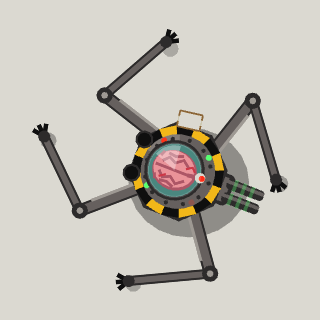
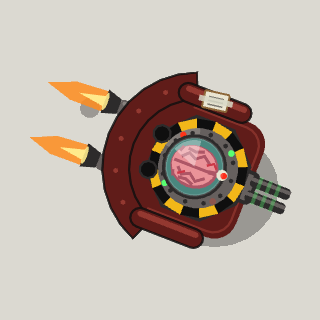
Floor Manager: no legs, he floats in an executive chair on a rocket
The spider legs looked wrong. His look (floor_manager_look.lua) now sits his
hull in an oxblood executive chair: the seat piped, a tufted backrest curved
round behind him, padded armrests on chrome posts, the clipboard taped to the
left one. Two rocket engines poke out behind the backrest, their flames
longer the faster he goes. He bobs off the floor, his shadow off to one
side; for a stomp the rockets roar and he rises, then drops. Their smoke
replaces the stacks'. The wreck is the chair with cold rockets.

Nothing he does changed; his comments, wiki page and docs say chair, not legs.

Changed region(s): [[0.0938, 0.0938, 0.9062, 0.9375]]

diff --git a/docs/eternal-mood.md b/docs/eternal-mood.md
@@ -47,18 +47,18 @@ branch off `feature/eternal-mood`):
   (`eternal-mood/floor_manager.lua`, his brain `floor_manager_brain.lua`,
   placed by the map's `horde.boss`; FM_ messages), the line's Arachnotron.
   The UAC's shift supervisor, promoted out of his body: his brain in a
-  glass dome on a four-legged spider walker, a plasma cannon under the
-  front, the clipboard taped on (drawn at 1.5x, 34 px across). 2250 health
+  glass dome on an armoured hull, a plasma cannon under the front,
+  floating in his executive chair on a rocket, the clipboard taped on (drawn at 1.5x, 34 px across). 2250 health
   for one human (Volt has 1800). He waits on the Hangar's lift, facing the
   room, until a player walks into the Hangar or shoots him ("You're not on
-  the rota."). He walks any way on his legs (90 px/s), keeps 340 px off
+  the rota."). He floats any way in his chair (90 px/s), keeps 340 px off
   whoever he has and side-steps. Plasma: within 700 px, facing them, the
   cannon charges for 0.55 s (glowing, a faint green line where it points),
   then a stream of ten bolts 0.09 s apart (fireballs.lua's "plasma", 520
   px/s, 9 `shock` each), the aim dragging after them at 1.1 rad/s: keep
   moving across it. Every 3.2 s, 2.4 in phase 2 (under half), when three
   streams go out in a fan (0.28 rad either side); 15 breath. Stomp: within
-  120 px the legs rear up for 0.6 s (a ring on the floor) and come down on
+  120 px he rises on his rockets for 0.6 s (a ring on the floor) and drops on
   everyone within 115 px (30 `impact`, a 140 px shove); every 2.2 s. The
   cannon has 600 health of its own (scaled like his): a round within 18 px
   of its end hits it, and him for a quarter; shot off ("My presentation!")
@@ -188,6 +188,16 @@ branch off `feature/eternal-mood`):
   cannon leaves a stump with its cables swinging and sparking. His wreck:
   legs sprawled flat, the hull dark, the dome smashed to shards round its
   rim, smoke going up.
+
+- `feature/floor-manager-chair`: the Floor Manager's legs gone (they
+  looked wrong). He floats in his executive chair on a rocket: oxblood
+  leather, the seat piped, a tufted backrest curved round behind him,
+  padded armrests on chrome posts, the clipboard taped to the left one;
+  two rocket engines out behind the backrest, banded in hazard paint, their
+  flames longer the faster he goes. He bobs 7 px off the floor (2 px up and
+  down), his shadow off to one side; for a stomp the rockets roar and he
+  rises 16 px more, then drops. Their smoke replaces the stacks'. His
+  wreck: the chair on the floor, its rockets cold. Nothing he does changed.
 
 - `feature/eternal-mood-earth`: Heck on Earth (`earth`, 40x160, on foot,
   `city-map/eternal_mood.lua`'s `buildEarth`), quest `eternal-mood-earth`
@@ -522,8 +532,8 @@ Each is a bit more dream than the last, the way the levels are.
 
 - **The Floor Manager** (Fobos Base), the line's Arachnotron. The UAC's
   shift supervisor, promoted out of his body: his brain in a glass dome on
-  a four-legged spider walker with a plasma cannon, his clipboard taped to
-  the side. Guards the hangar lift. Streams plasma, stomps whoever gets
+  an armoured hull with a plasma cannon, floating in his executive chair
+  on a rocket, his clipboard taped to its arm. Guards the hangar lift. Streams plasma, stomps whoever gets
   close, and calls zombie staff in "for a quick meeting". Shoot his cannon
   off and he has to come and stomp you. Not to be confused with Heck's
   Spider Mattressmind, the bigger spider with the chaingun.
@@ -917,7 +927,7 @@ the first drafts.
 - **Fobos Base**
   - The lab door opens: "Rip. Tear. In that order."
   - The reactor room: "Reactor's humming. Weird hum. Sounds like a fridge."
-  - The Floor Manager wakes: "A manager. A brain. On legs. With a gun. ...That's most managers."
+  - The Floor Manager wakes: "A manager. A brain. In a rocket chair. With a gun. ...That's most managers."
   - The Floor Manager down: "Meeting's over."
   - The end, the lift: "Going up. The demons are going down."
 - **Heck on Earth**

diff --git a/docs/wiki/enemies/eternal-mood-floor-manager.md b/docs/wiki/enemies/eternal-mood-floor-manager.md
@@ -6,7 +6,7 @@
 
 <img src="img/eternal-mood-floor-manager.png" alt="The Floor Manager" width="240">
 
-The UAC's shift supervisor, promoted out of his body: his brain in a glass dome on a four-legged spider walker, a plasma cannon slung under the front. The lift is out of service until he is down.
+The UAC's shift supervisor, promoted out of his body: his brain in a glass dome on an armoured hull, a plasma cannon slung under the front, floating about in his executive chair on a rocket. The lift is out of service until he is down.
 
 | | |
 |---|---|
@@ -14,14 +14,14 @@ The UAC's shift supervisor, promoted out of his body: his brain in a glass dome 
 | **Rank** | Boss |
 | **Health** | 2250 |
 | **Cannon** | 600 health of its own: rounds on it wreck it, and hurt him less |
-| **Speed** | 90 px/s, any way on four legs; 1.35 times that once his cannon is gone; 40 winded |
+| **Speed** | 90 px/s, floating any way; 1.35 times that once his cannon is gone; 40 winded |
 | **Sight** | 760 px |
 | **Drops** | 25 koins, and maybe a pickup or two |
 
 ## Weapons
 
 - **Plasma**: the cannon glows for 0.55 s, then a stream of 10 bolts, 0.09 s apart, 9 shock damage each, out to 700 px; his aim drags after you at 1.1 rad/s. One every 3.2 s, every 2.4 s under half health
-- **Stomp**: within 120 px: legs up for 0.6 s (a ring on the floor), then 30 impact damage to everyone within 115 px, shoved 140 px; at most every 2.2 s
+- **Stomp**: within 120 px: he rises for 0.6 s (a ring on the floor), then drops his chair: 30 impact damage to everyone within 115 px, shoved 140 px; at most every 2.2 s
 
 ## Abilities
 
@@ -36,7 +36,7 @@ The UAC's shift supervisor, promoted out of his body: his brain in a glass dome 
 
 - Shoot the cannon off first: no more plasma, though he comes at you faster.
 - Keep moving across a stream, not away from it: his aim is slow to follow.
-- Step out of the ring before his legs come down.
+- Step out of the ring before his chair comes down.
 - A freeze holds him stiff.
 
 ---

diff --git a/CHANGELOG.md b/CHANGELOG.md
@@ -14,6 +14,10 @@ How to write it (details in "Changelog and versioning" in `docs/features.md`):
 
 ## [Unreleased]
 
+### Changed
+- The Floor Manager has lost his spider legs: he floats about the Hangar in an oxblood executive chair on a
+  rocket, its flames roaring behind him. For his stomp he rises on full burn and drops the chair on you.
+
 ## [0.39.1] - 2026-10-20
 
 Kilowatt is more machine than man now, with two spikes on his back and lightning crackling between them.
